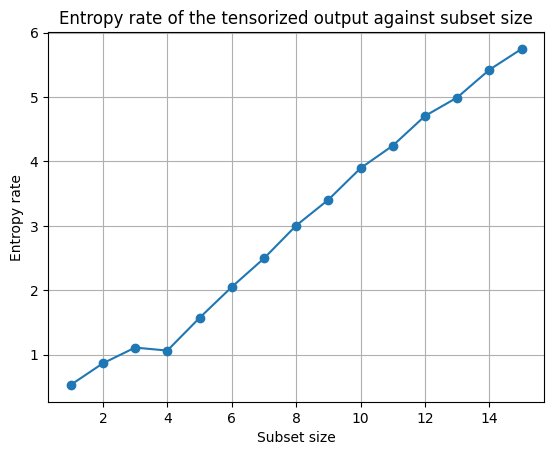
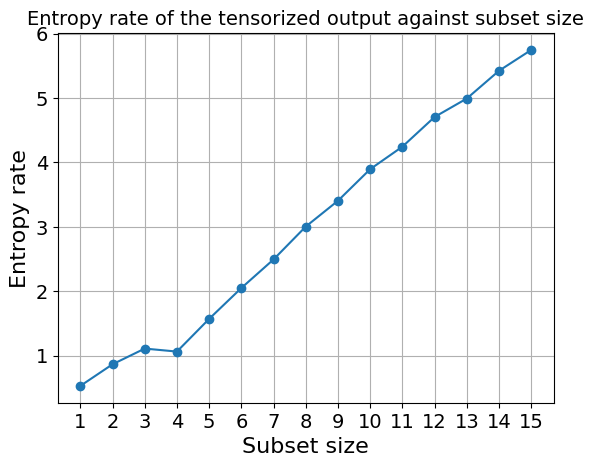
minor: plots + distgrdy (bugs)

Changed region(s): [[0.0, 0.0, 0.9819, 0.9846], [0.3375, 0.4615, 0.3682, 0.5231]]

diff --git a/dist2fact/distorted_greedy.py b/dist2fact/distorted_greedy.py
@@ -200,75 +200,70 @@ def torch_MC_generation(N, d, l_values, s):
 # -----------------------------------------------------------------------
 #  Aggregation: keep / leave subset of coordinates
 # -----------------------------------------------------------------------
+
 def keep_S_in_mat(P, state_space, pi, S):
     """
-    Aggregates the full chain (P, pi) onto coordinates S.
+    Aggregates the Markov chain (P, pi) onto the coordinates in S.
+
+    Parameters:
+        P (torch.Tensor): The transition matrix of the Markov chain.
+        state_space (list of tuples): The original state space.
+        pi (torch.Tensor): The stationary distribution.
+        S (set): The subset of indices to retain.
     
-    Return (partial_states, pi_S, P_S):
-      - partial_states is a list of new states x_S,
-      - pi_S[i] = sum_{x: x|S = partial_states[i]} pi(x),
-      - P_S[i,j] = (1/pi_S[i]) * sum_{x|S=i} sum_{y|S=j} pi(x)*P(x,y).
+    Returns:
+        tuple: (partial_states, pi_S, P_S) where
+          - `partial_states` is a list of reduced states x_S,
+          - `pi_S[i] = sum_{x: x|S = partial_states[i]} pi(x)`,
+          - `P_S[i,j] = (1/pi_S[i]) * sum_{x|S=i} sum_{y|S=j} pi(x)*P(x,y)`.
     """
     M = len(state_space)
-    S_list = sorted(list(S))
+    S_list = sorted(list(S))  # Convert set to ordered list for indexing
 
-    # Convert to CPU for loops
-    pi_cpu = pi.detach().cpu().numpy()
-    P_cpu  = P.detach().cpu().numpy()
-
-    # Map each full state -> partial state index
+    # Create mapping from full state to reduced state index
     partial_map = {}
     partial_list = []
-    next_idx     = 0
-    full_to_reduced = np.empty(M, dtype=np.int64)
+    full_to_reduced = torch.empty(M, dtype=torch.int64, device=device)
 
+    next_idx = 0
     for i, x in enumerate(state_space):
-        xS = tuple(x[k] for k in S_list)
-        if xS not in partial_map:
-            partial_map[xS] = next_idx
-            partial_list.append(xS)
+        x_S = tuple(x[k] for k in S_list)
+        if x_S not in partial_map:
+            partial_map[x_S] = next_idx
+            partial_list.append(x_S)
             next_idx += 1
-        full_to_reduced[i] = partial_map[xS]
+        full_to_reduced[i] = partial_map[x_S]
 
     num_reduced = len(partial_list)
 
-    # Accumulate pi_S
-    pi_S_np = np.zeros(num_reduced, dtype=np.float64)
+    # Compute marginal pi_S
+    pi_S = torch.zeros(num_reduced, dtype=torch.float64, device=device)
     for i in range(M):
-        pi_S_np[ full_to_reduced[i] ] += pi_cpu[i]
+        pi_S[full_to_reduced[i]] += pi[i]
 
-    # Accumulate transitions
-    P_S_num = np.zeros((num_reduced, num_reduced), dtype=np.float64)
+    # Compute reduced transition matrix P_S
+    P_S_num = torch.zeros((num_reduced, num_reduced), dtype=torch.float64, device=device)
     for x_idx in range(M):
         xS_idx = full_to_reduced[x_idx]
-        w_x    = pi_cpu[x_idx]
-        if w_x<1e-15:
+        w_x = pi[x_idx]
+        if w_x < 1e-15:
             continue
-        row_x  = P_cpu[x_idx]
-        for y_idx, p_xy in enumerate(row_x):
-            if p_xy<1e-15:
+        for y_idx in range(M):
+            if P[x_idx, y_idx] < 1e-15:
                 continue
             yS_idx = full_to_reduced[y_idx]
-            P_S_num[xS_idx, yS_idx] += w_x*p_xy
+            P_S_num[xS_idx, yS_idx] += w_x * P[x_idx, y_idx]
 
-    # Divide each row by pi_S
-    P_S_np_final = np.zeros_like(P_S_num)
+    # Normalize rows by pi_S
+    P_S = torch.zeros_like(P_S_num)
     for i in range(num_reduced):
-        if pi_S_np[i]>1e-15:
-            P_S_np_final[i, :] = P_S_num[i, :] / pi_S_np[i]
-        # else row stays 0
+        if pi_S[i] > 1e-15:
+            P_S[i, :] = P_S_num[i, :] / pi_S[i]
 
-    # Convert back to torch
-    pi_S = torch.tensor(pi_S_np, dtype=torch.float32, device=device)
-    P_S  = torch.tensor(P_S_np_final, dtype=torch.float32, device=device)
-
-    return partial_list, pi_S, P_S
+    return partial_list, pi_S.to(torch.float32), P_S.to(torch.float32)
 
 def leave_S_out_mat(P, state_space, pi, S):
-    """
-    Complement subset: we keep all coords except those in S.
-    """
-    d = len(state_space[0])  # original dimension
+    d = len(state_space[0])
     Sbar = set(range(d)) - set(S)
     return keep_S_in_mat(P, state_space, pi, Sbar)
 
@@ -281,7 +276,7 @@ def compute_entropy_rate(P, pi):
     """
     pi_64 = pi.double()
     P_64  = P.double()
-    val = -torch.sum( pi_64.unsqueeze(1)* P_64 * torch.log(P_64 + 1e-15) )
+    val = -torch.sum(pi_64.unsqueeze(1)* P_64 * torch.log(P_64 + 1e-15))
     return val.float()
 
 def KL_divergence_gpu(pi, P, Q):
